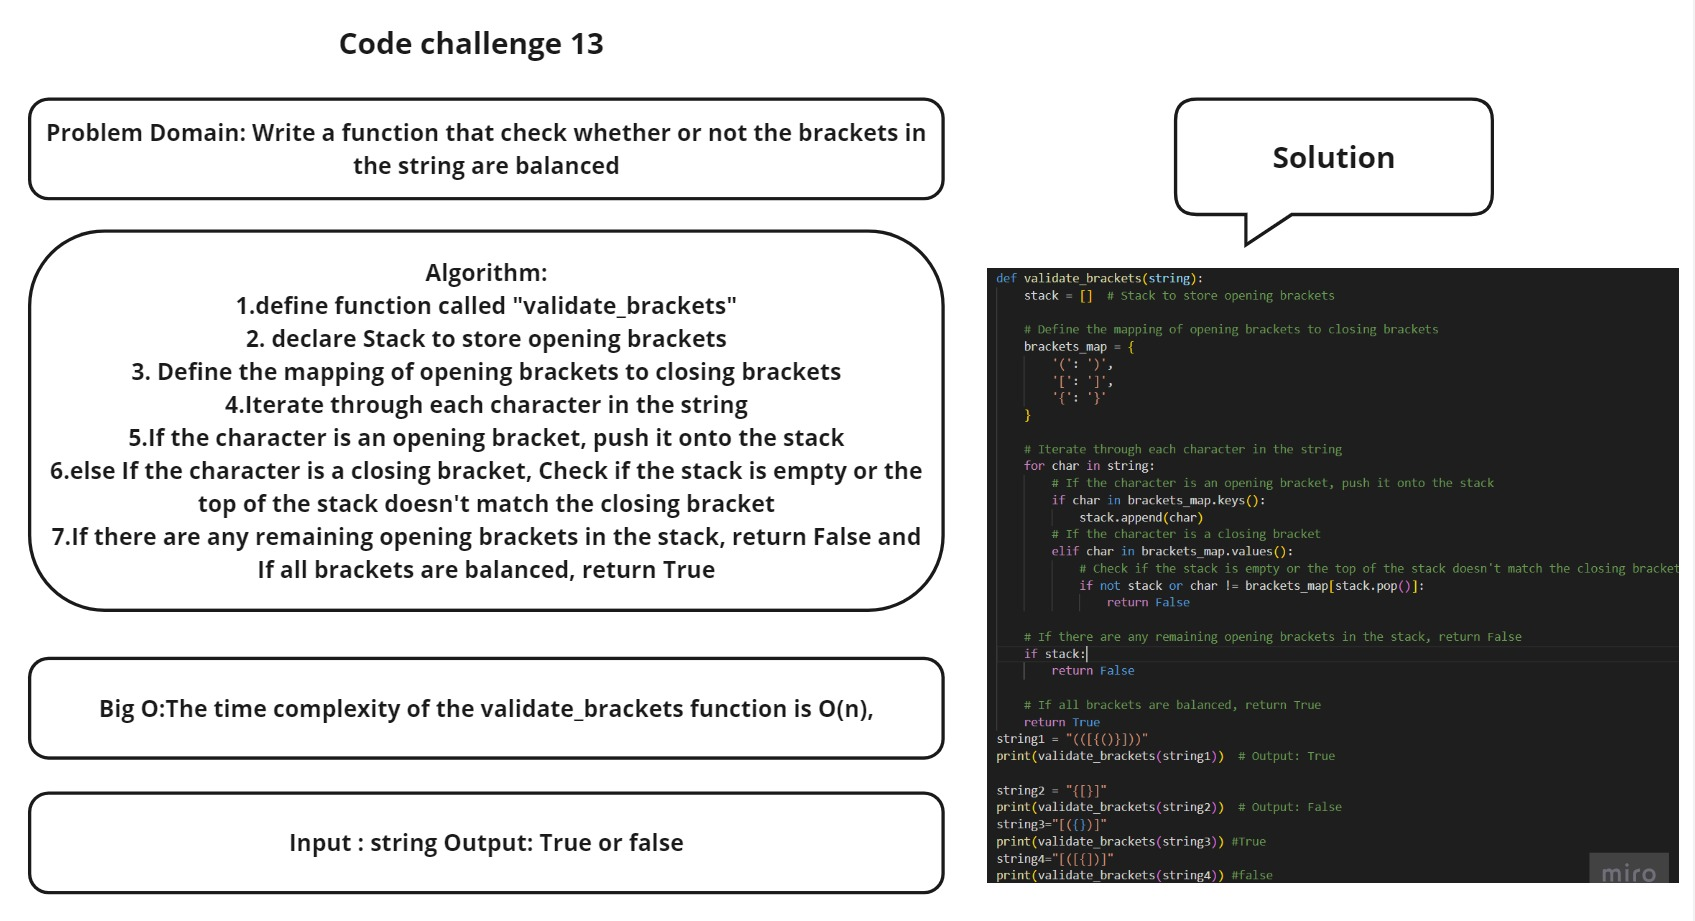
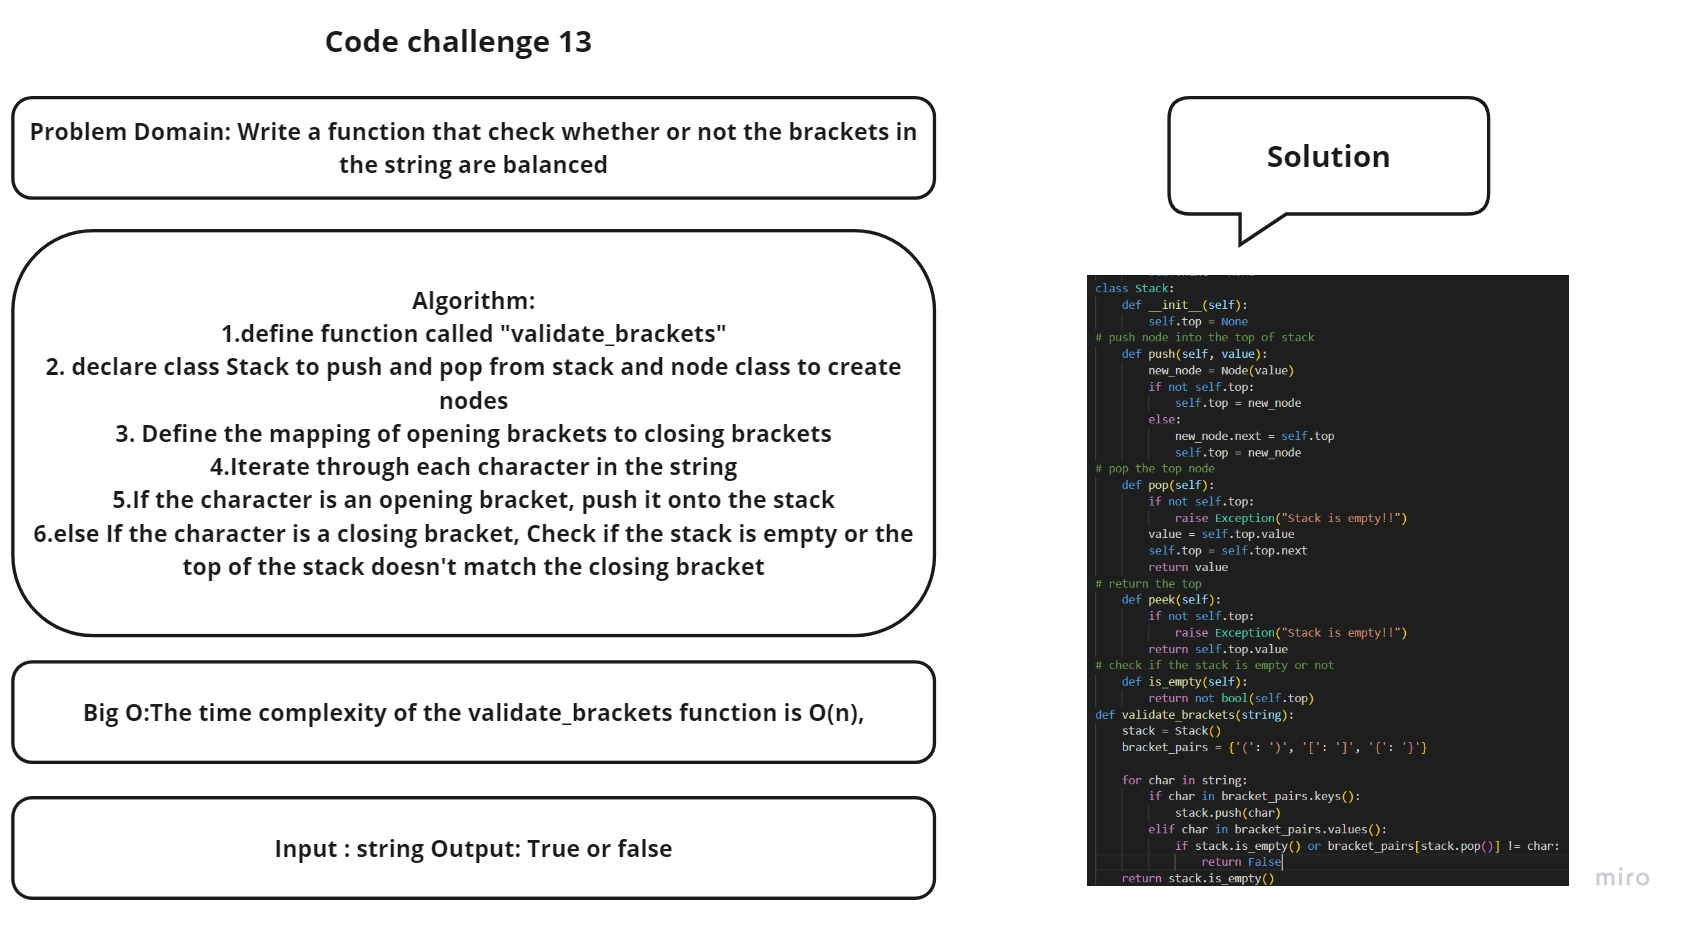
cc13

diff --git a/DataStructure/StackAndQueue/CC13.py b/DataStructure/StackAndQueue/CC13.py
@@ -1,30 +1,44 @@
+class Node: #class for creating a node 
+    def __init__(self, value):
+        self.value = value
+        self.next = None
+class Stack: 
+    def __init__(self):
+        self.top = None
+# push node into the top of stack
+    def push(self, value):
+        new_node = Node(value)
+        if not self.top:
+            self.top = new_node
+        else:
+            new_node.next = self.top
+            self.top = new_node
+# pop the top node
+    def pop(self):
+        if not self.top:
+            raise Exception("Stack is empty!!")
+        value = self.top.value
+        self.top = self.top.next
+        return value
+# return the top
+    def peek(self):
+        if not self.top:
+            raise Exception("Stack is empty!!")
+        return self.top.value
+# check if the stack is empty or not 
+    def is_empty(self):
+        return not bool(self.top)   
 def validate_brackets(string):
-    stack = []  # Stack to store opening brackets
+    stack = Stack()
+    bracket_pairs = {'(': ')', '[': ']', '{': '}'}
 
-    # Define the mapping of opening brackets to closing brackets
-    brackets_map = {
-        '(': ')',
-        '[': ']',
-        '{': '}'
-    }
-
-    # Iterate through each character in the string
     for char in string:
-        # If the character is an opening bracket, push it onto the stack
-        if char in brackets_map.keys():
-            stack.append(char)
-        # If the character is a closing bracket
-        elif char in brackets_map.values():
-            # Check if the stack is empty or the top of the stack doesn't match the closing bracket
-            if not stack or char != brackets_map[stack.pop()]:
+        if char in bracket_pairs.keys():
+            stack.push(char)
+        elif char in bracket_pairs.values():
+            if stack.is_empty() or bracket_pairs[stack.pop()] != char:
                 return False
-
-    # If there are any remaining opening brackets in the stack, return False
-    if stack:
-        return False
-
-    # If all brackets are balanced, return True
-    return True
+    return stack.is_empty()
 string1 = "(([{()}]))"
 print(validate_brackets(string1))  # Output: True
 

diff --git a/DataStructure/StackAndQueue/CC13.md b/DataStructure/StackAndQueue/CC13.md
@@ -9,29 +9,50 @@ I declared a function called validate_brackets which check if all opening bracke
 ```
 ## Solution
 ```
+class Node:
+    def __init__(self, value):
+        self.value = value
+        self.next = None
+
+
+class Stack:
+    def __init__(self):
+        self.top = None
+
+    def push(self, value):
+        new_node = Node(value)
+        if not self.top:
+            self.top = new_node
+        else:
+            new_node.next = self.top
+            self.top = new_node
+
+    def pop(self):
+        if not self.top:
+            raise Exception("Stack is empty!!")
+        value = self.top.value
+        self.top = self.top.next
+        return value
+
+    def peek(self):
+        if not self.top:
+            raise Exception("Stack is empty!!")
+        return self.top.value
+
+    def is_empty(self):
+        return not bool(self.top)
+    
 def validate_brackets(string):
-    stack = [] 
+    stack = Stack()
+    bracket_pairs = {'(': ')', '[': ']', '{': '}'}
 
-    brackets_map = {
-        '(': ')',
-        '[': ']',
-        '{': '}'
-    }
-
- 
     for char in string:
-       
-        if char in brackets_map.keys():
-            stack.append(char)
-      
-        elif char in brackets_map.values():
-            
-            if not stack or char != brackets_map[stack.pop()]:
+        if char in bracket_pairs.keys():
+            stack.push(char)
+        elif char in bracket_pairs.values():
+            if stack.is_empty() or bracket_pairs[stack.pop()] != char:
                 return False
 
-    if stack:
-        return False
-
-    return True
+    return stack.is_empty()
 
 ```
